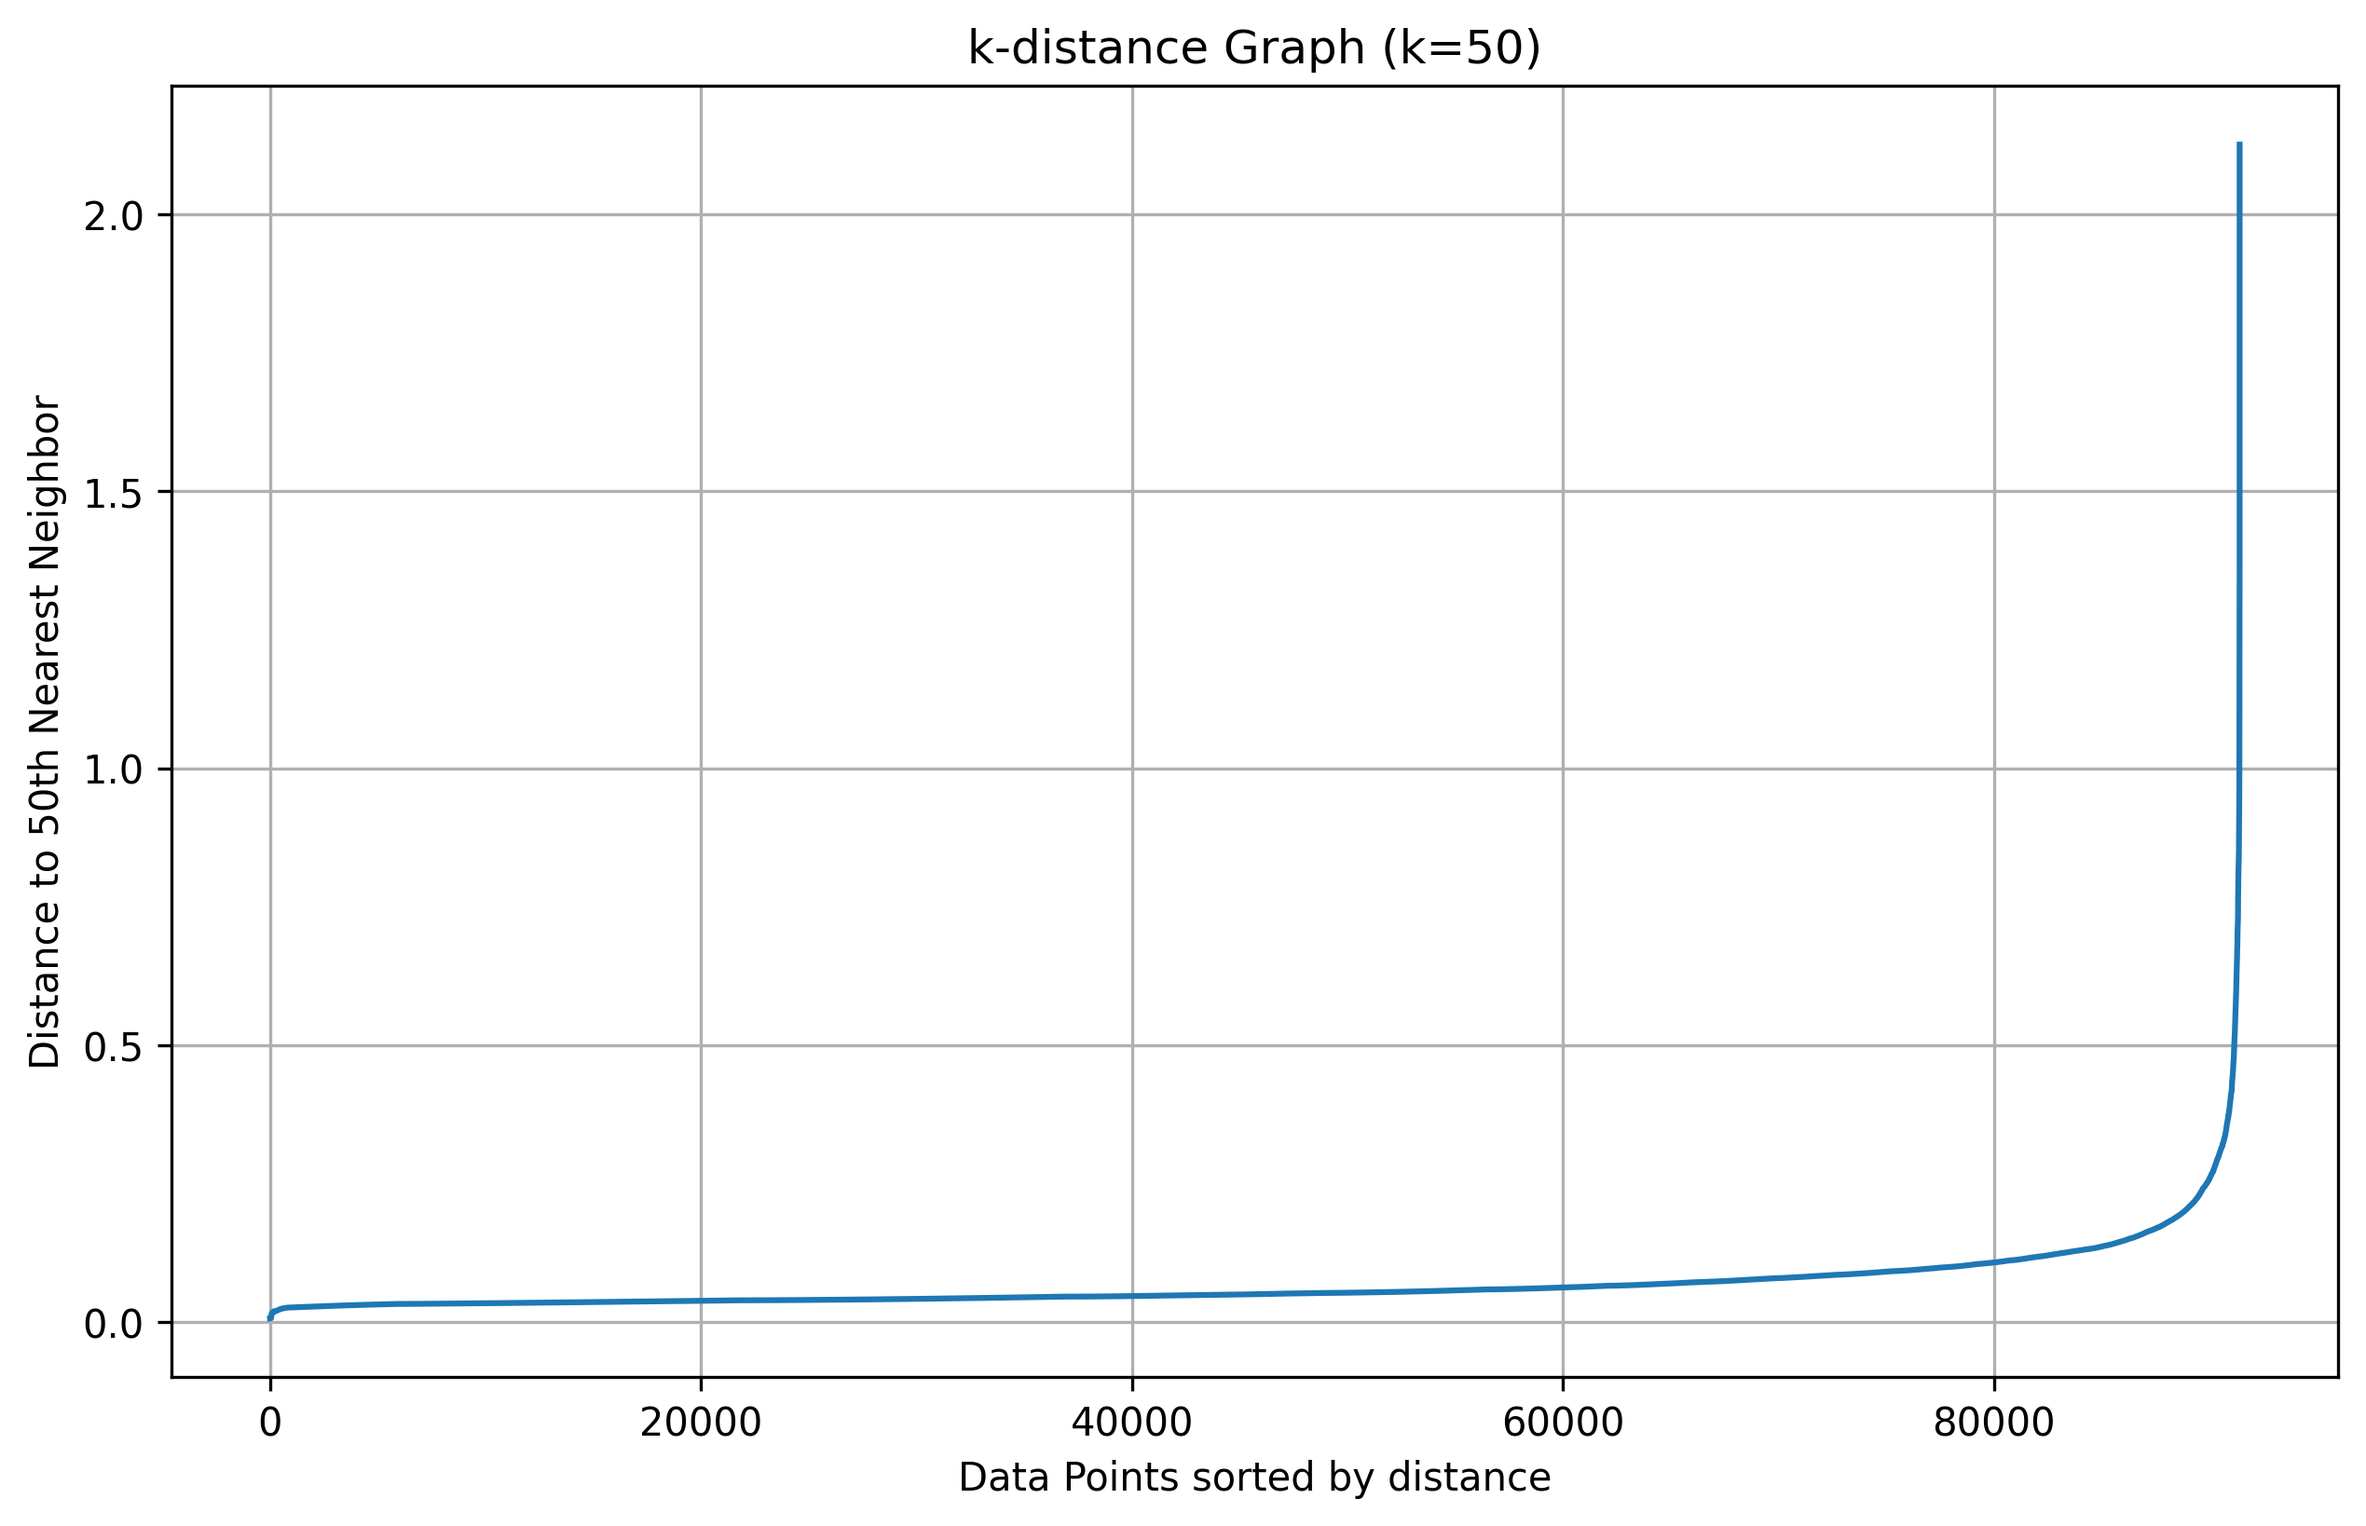
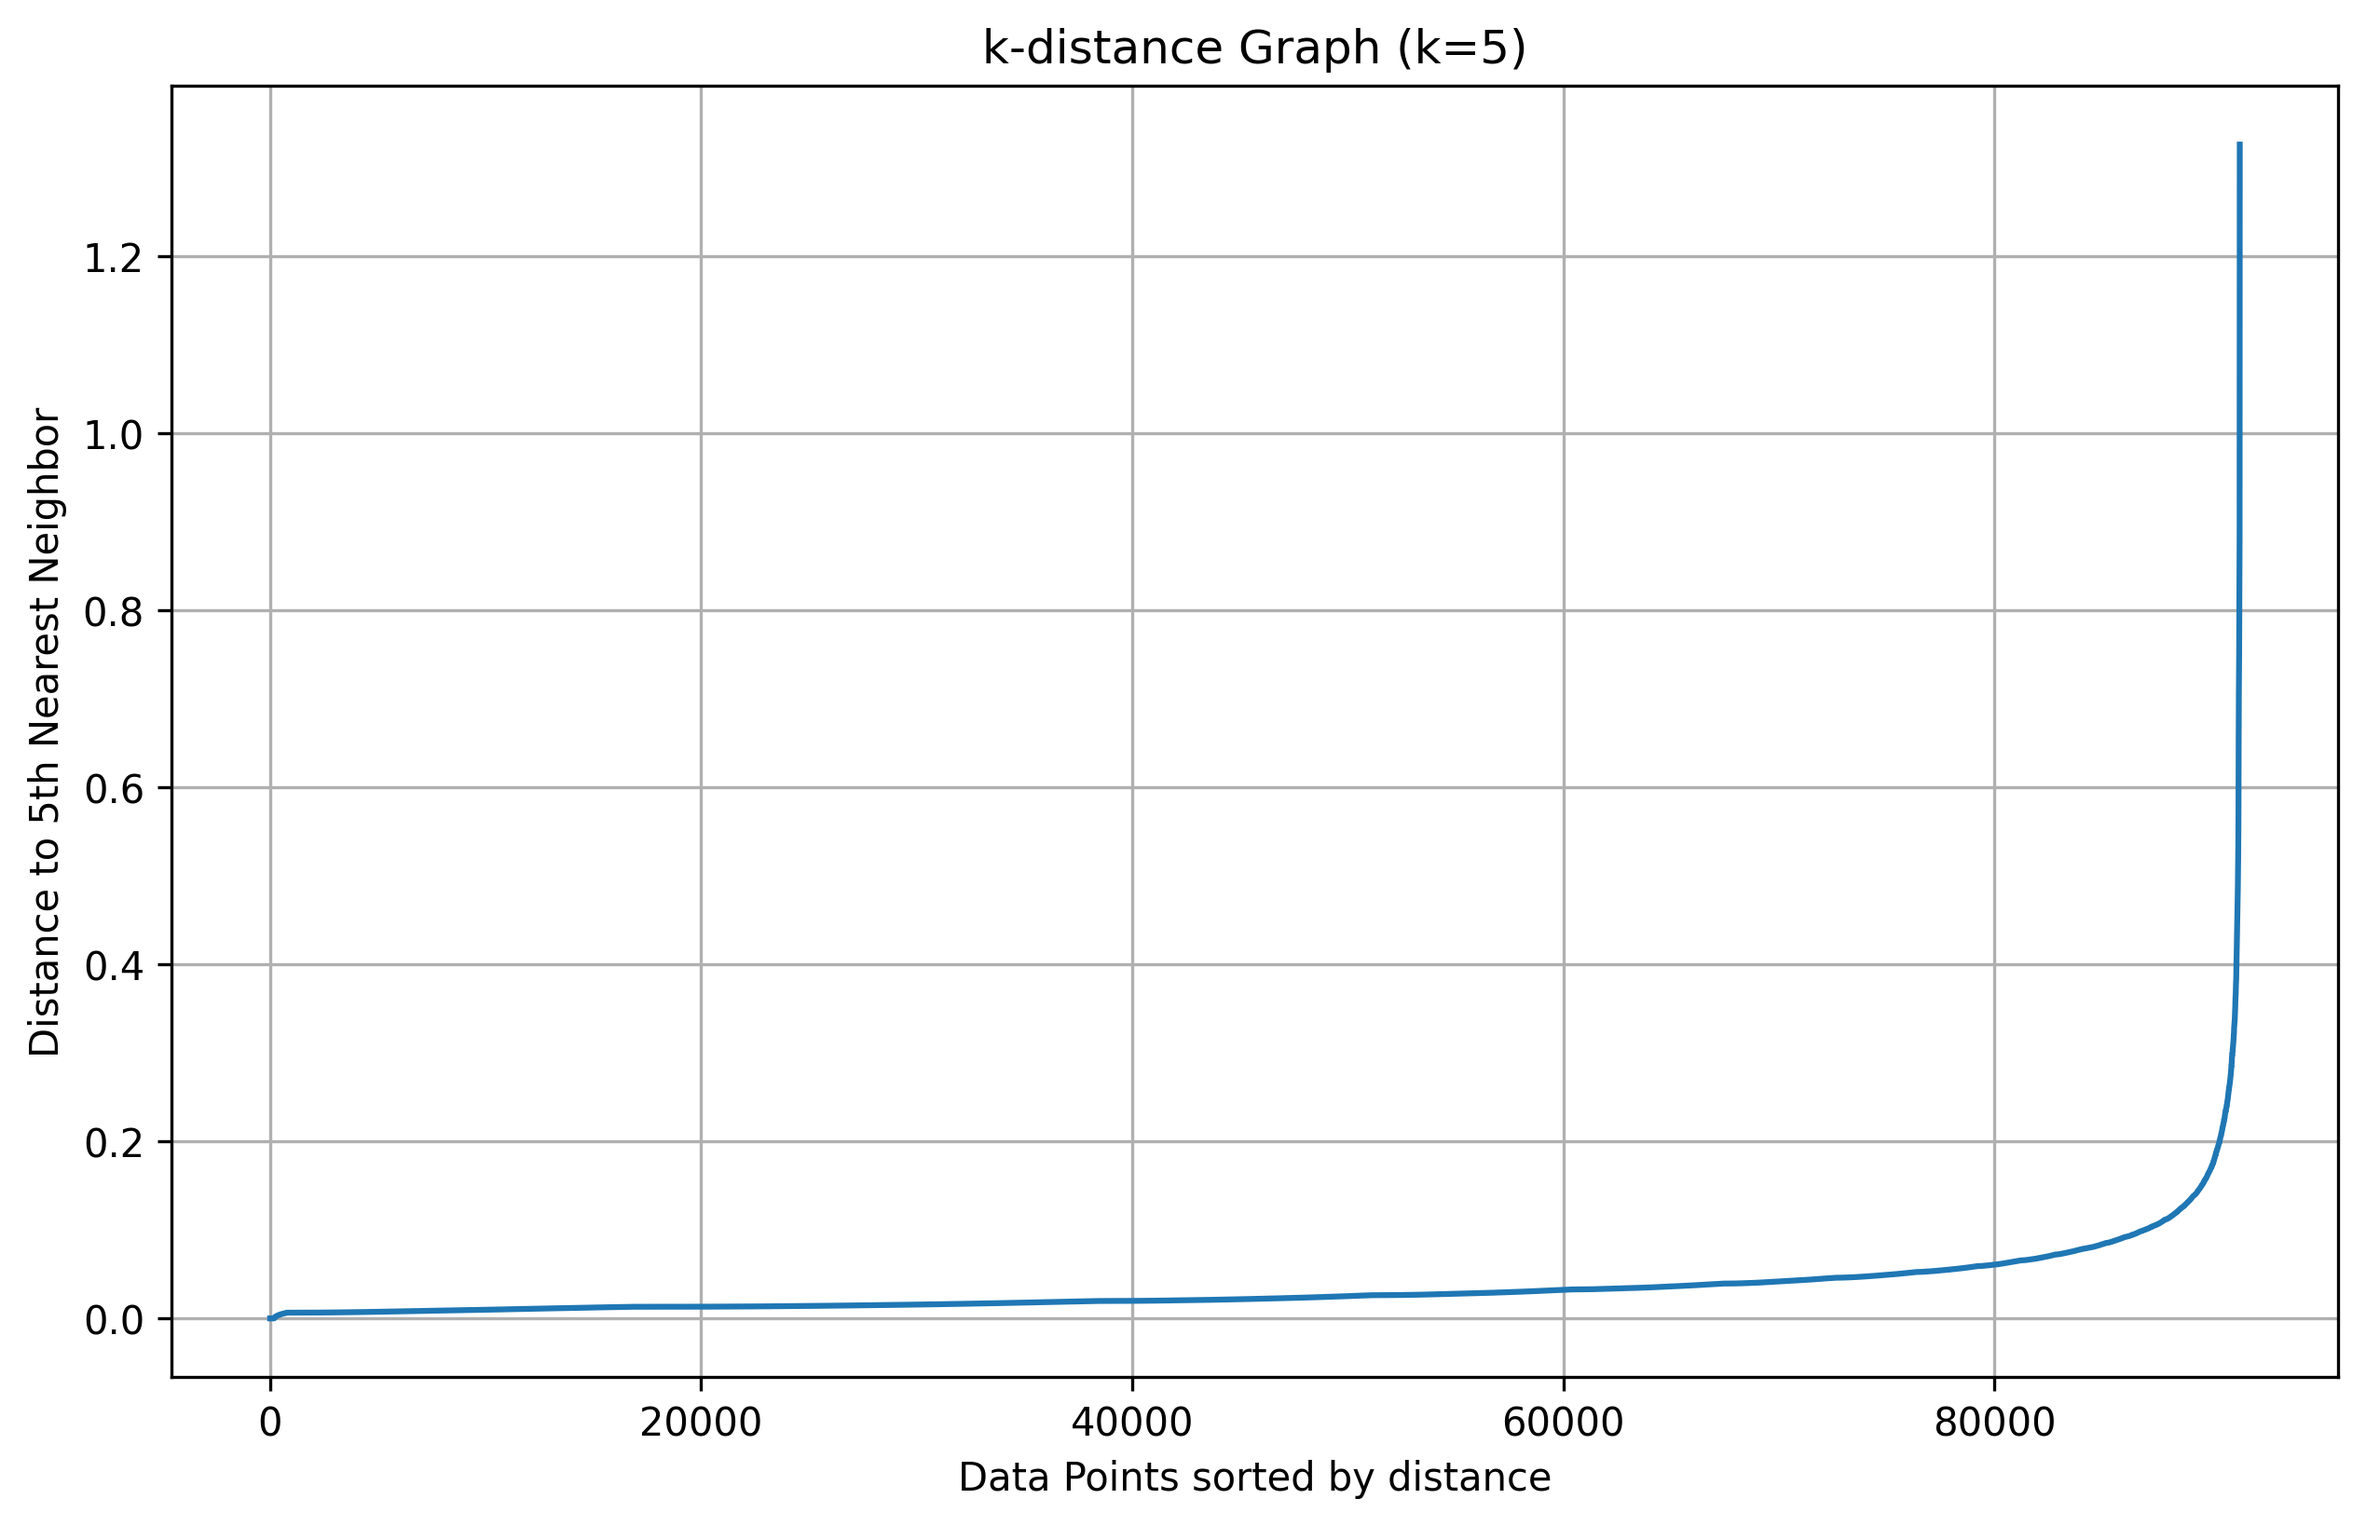
eval nya udah di print bang, ga perlu export to pickle lagi

diff --git a/11-kproto/main.py b/11-kproto/main.py
@@ -52,19 +52,18 @@ utils.plot_3d_clusters(kproto_rfmd_raw, "K-Prototypes")
 utils.summarize_cluster_v2(kproto_rfmd_raw)
 
 
-# logger.print("evaluation metrics")
-# eval_results = utils.evaluation_metrics(
-#     df=rfmd_kproto,
-#     algorithm="KPrototypes",
-#     cluster_range=range(2, 7),
-# )
-# logger.print("Evaluation results:")
-# logger.print(eval_results)
-# 
-# logger.print("Plot evaluation metrics")
-# utils.plot_evaluation_metrics(eval_results)
+logger.print("evaluation metrics")
+eval_results = utils.evaluation_metrics(
+    df=rfmd_kproto,
+    algorithm="KPrototypes",
+    cluster_range=range(2, 7),
+)
+logger.print("Evaluation results:")
+logger.print(eval_results)
+
+logger.print("Plot evaluation metrics")
+utils.plot_evaluation_metrics(eval_results)
 
 
 utils.export_pickle(rfmd_kproto, "rfmd_kproto.pkl")
 utils.export_pickle(kproto_rfmd_raw, "rfmd_kproto_clean.pkl")
-# utils.export_pickle(eval_results, "rfm_kproto_eval.pkl")

diff --git a/12-dbscan/main.py b/12-dbscan/main.py
@@ -313,4 +313,4 @@ utils.plot_evaluation_metrics(eval_results)
 
 utils.export_pickle(RFMD_final, "rfmd_dbscan.pkl")
 utils.export_pickle(DBSCAN_df_original, "rfmd_dbscan_clean.pkl")
-utils.export_pickle(eval_results, "rfm_dbscan_eval.pkl")
+# utils.export_pickle(eval_results, "rfm_dbscan_eval.pkl")

diff --git a/13-gmm/main.py b/13-gmm/main.py
@@ -92,7 +92,7 @@ utils.plot_evaluation_metrics(eval_results)
 
 utils.export_pickle(gmm_data_with_categorical, "rfmd_gmm.pkl")
 utils.export_pickle(gmm_rfm_raw, "rfmd_gmm_clean.pkl")
-utils.export_pickle(eval_results, "rfm_gmm_eval.pkl")
+# utils.export_pickle(eval_results, "rfm_gmm_eval.pkl")
 
 
 
